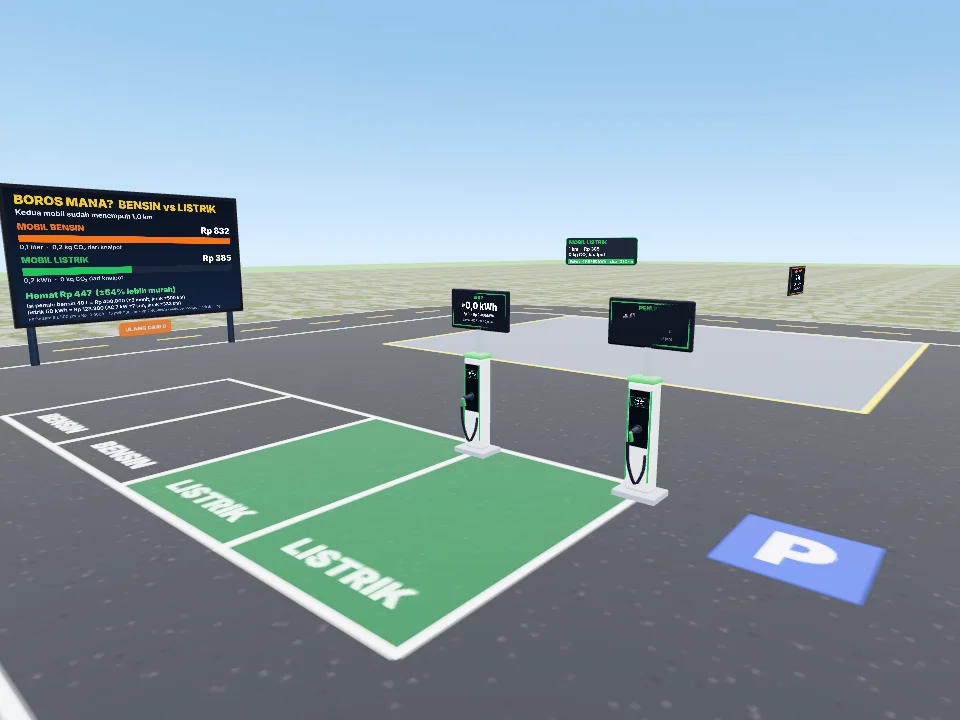
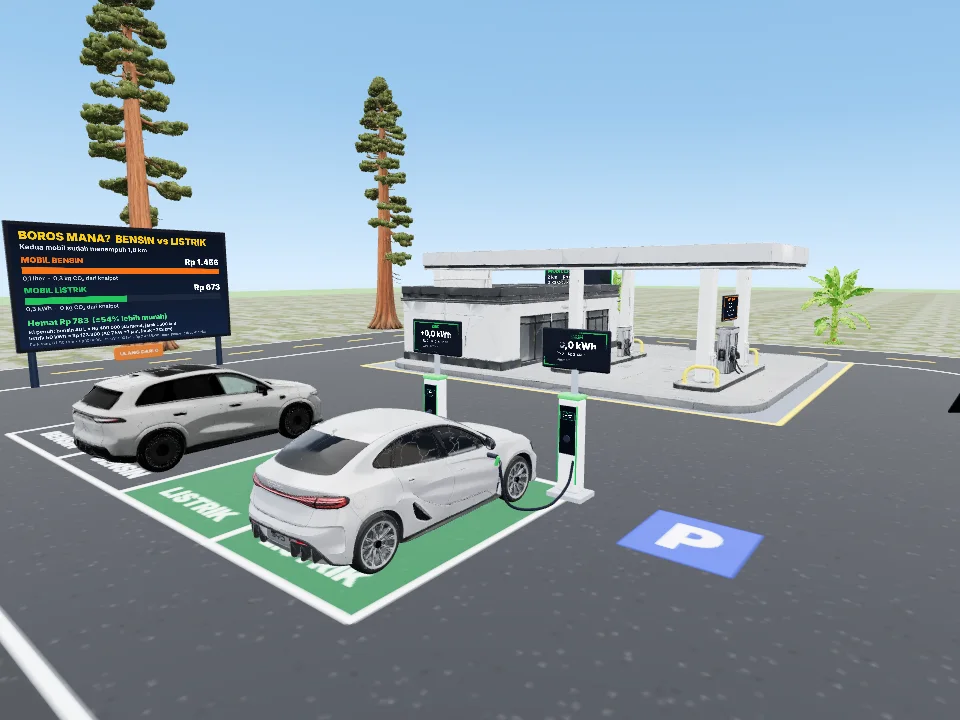
Ilustrasi uji boros dimuat lengkap dan catatan 16 pertemuan di panduan kerja
Claude-Session: https://claude.ai/code/session_01CE34EkTYUcsSocqjriFXe2

diff --git a/.claude/skills/ev-lab/SKILL.md b/.claude/skills/ev-lab/SKILL.md
@@ -34,7 +34,7 @@ dilanggar (tanpa database, aset ditanam, tanpa unggah/unduh, langsung pakai, des
 | `src/components/AssemblyGame.tsx` | Game "Rakit Mobil Listrik" (urutan komponen, layar skor, tombol PETUNJUK / ULANGI) |
 | `src/components/DrivingTrack.tsx` | Lintasan aspal luar ala ujian SIM + mobil yang berkeliling dan mampir mengisi daya |
 | `src/components/ParkingArea.tsx` | Area parkir & SPBU di barat luar lintasan (pusat X −47,5 Z 5): jalan lingkar dengan mobil bensin vs listrik yang terus berjalan + meteran biaya, papan "Boros mana?", SPBU ukuran nyata, petak parkir. Disembunyikan saat pemain di dalam gedung. Angka biaya ada di `ASSUMPTIONS`. Armada 4 mobil (`FLEET`): sepasang berjalan, sepasang parkir, bergantian tiap 2 putaran; roda dipisah dengan `split-fused-wheels.mjs` (mobil klasik: `0.078 0.36 tetap 0.8` agar spatbor tidak ikut berputar). `window.__timeScale` (dev) mempercepat simulasi untuk uji (di swiftshader pakai ±80); `window.__parking` (dev) = status mobil, isi tangki/baterai. Skala 1 m = 1 km; mobil bensin (tangki 40 L) mampir SPBU lewat `spbuCurve()` sebelum parkir, mobil listrik (50 kWh) mengisi pelan di `CHARGERS` (tiang cas petak listrik); konektor cas (`ChargeGun`) menempel di spatbor depan (`PORT`, dipaskan dengan sinar ke bodi) dan tergantung di tiang saat petak kosong. Tekstur tanah bersudut bening mengikuti tikungan (`alphaTest`), simpang ke lintasan uji = `JUNCTION` (mulut melebar berjari-jari); warna dasar aspal harus sama dengan `drawRoad` di DrivingTrack (`#2a2c30`) |
-| `src/lib/obe.ts`, `src/components/ObePanel.tsx`, `src/components/ObeBoard.tsx` | **OBE**: `CPL` → `CPMK` → `ACTIVITIES` (urutan belajar) → nilai. Catatan per siswa di localStorage (`evlab_obe_v1`, tanpa login/database; siswa bawaan "Tamu"). Kegiatan memanggil `recordActivity(id, nilai)` / `recordVisit(id)` / `recordQuiz(noSoal, benar)`; `ObeTracker` mencatat kunjungan zona. `QUIZ_CPMK` harus sejajar dengan urutan `QUESTIONS` di LabStations (tambah soal = tambah tag). Nilai CPMK = 60% kuis + 40% kegiatan, tuntas ≥ 70 (`COURSE`). Panel dibuka dengan `openObePanel()` (beranda, dok, chip HP); papan alur di dinding depan dalam; laporan lewat dialog cetak |
+| `src/lib/obe.ts`, `src/components/ObePanel.tsx`, `src/components/ObeBoard.tsx` | **OBE**: `CPL` → `CPMK` → `ACTIVITIES` (urutan belajar) → nilai. Catatan per siswa di localStorage (`evlab_obe_v1`, tanpa login/database; siswa bawaan "Tamu"). Kegiatan memanggil `recordActivity(id, nilai)` / `recordVisit(id)` / `recordQuiz(noSoal, benar)`; `ObeTracker` mencatat kunjungan zona. `QUIZ_CPMK` harus sejajar dengan urutan `QUESTIONS` di LabStations (tambah soal = tambah tag). Nilai CPMK = 60% kuis + 40% kegiatan, tuntas ≥ 70 (`COURSE`). Panel dibuka dengan `openObePanel()` (beranda, dok, chip HP); papan alur di dinding depan dalam; laporan lewat dialog cetak. `MEETINGS` = rencana 16 pertemuan (UTS ke-8, UAS ke-16) yang merujuk id modul di `lib/modules.ts` dan id kegiatan; membaca modul sampai slide terakhir dicatat `recordModule(id)`. Pojok baca memuat 6 buku per rak (tombol RAK). Ilustrasi modul baru = render dari dalam lab / diagram SVG (foto dunia nyata hanya dari pemilik: lampiran obrolan atau Google Drive) |
 | `src/components/AssemblyGame.tsx` (derek) | Derek gantri di game rakit: `CRANE_TOP`, palang angkat `rigRef` + rantai `chainRef` mengikuti bodi sampai duduk lalu naik lagi |
 | `src/components/HumanCharacter.tsx` | Avatar teknisi (mode orang ketiga), animasi jalan & lompat |
 | `src/components/SolarPower.tsx` | Panel surya di atap (`RoofSolarPanels`, satu InstancedMesh) dan sudut energi di dalam: lemari baterai, inverter, papan alur energi (`EnergyRoom`) |
